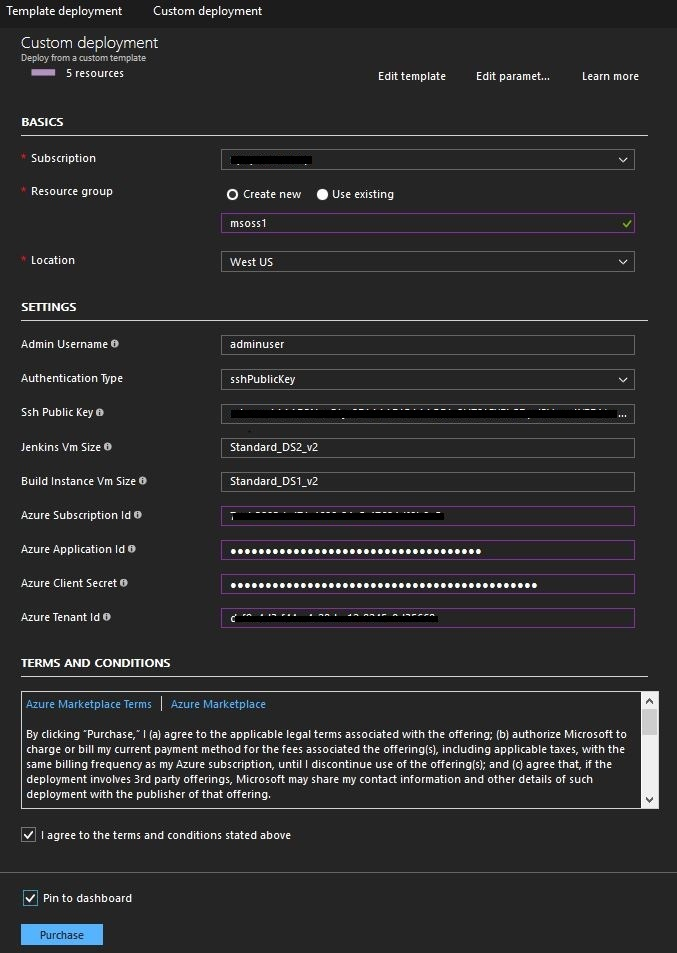
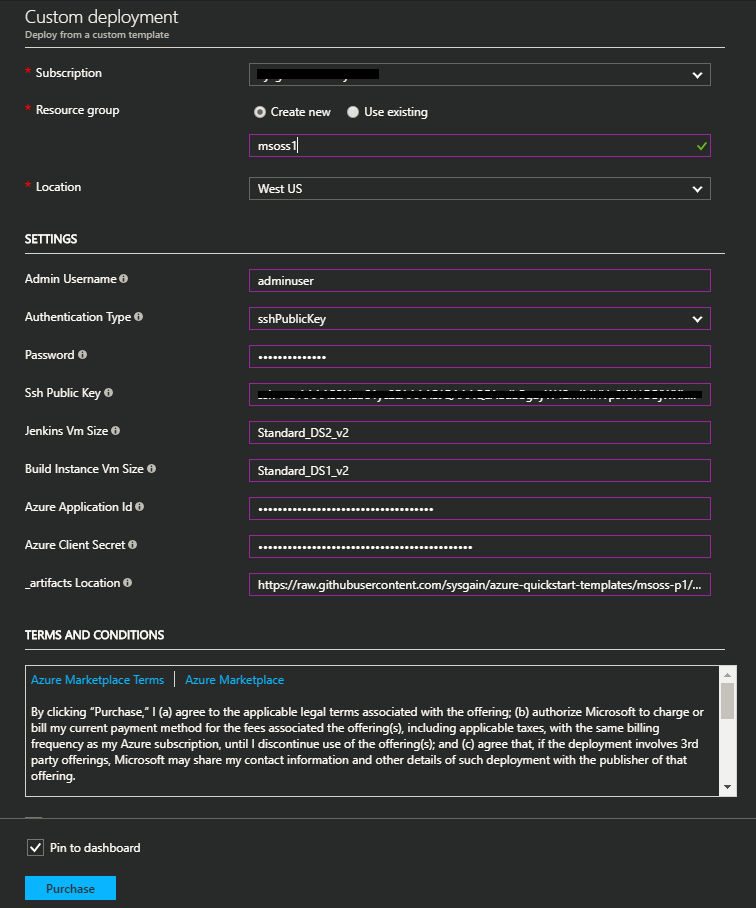
updated

diff --git a/devopstools-jekins-chefhabitat-terraform/README.md b/devopstools-jekins-chefhabitat-terraform/README.md
@@ -271,36 +271,8 @@ You will receive the following output:
 
             }
 
-2. Note the values for  **appId** , **password(ClientSecret)**, **tenant ID** for the parameters section.
+2. Note the values for  **appId** , **password(ClientSecret)** for the parameters section.
 
-You can take the **subscription ID** by running the following command:
-    **azure account show**
-
-You will receive the following output:
-
-            Executing command account show
-
-            Name              : Sysgain-Backup
-
-            ID                : ABCDEFGH-YOUR-GUID-HERE-IJKLMNOP
-
-            State             : Enabled
-
-            Tenant ID         : ABCDEFGH-YOUR-GUID-HERE-IJKLMNOP
-
-            Is Default        : true
-
-            Environment       : AzureCloud
-
-            Has Certificate   : No
-
-            Has Access Token  : YeS
-
-            User name         : username@sysgaininc.onmicrosoft.com
-
-            info              : account show command OK
-
-3. Note down the ID from the displayed details, that is the **Subscription ID.**
 
 ## Deploy the ARM Template:
 
@@ -324,7 +296,7 @@ You will receive the following output:
 
 ![alt text](https://github.com/sysgain/azure-quickstart-templates/raw/msoss-p1/devopstools-jekins-chefhabitat-terraform/images/10.png)
 
-7. Enter the detailsfor **Admin username, SSH Public key (Generated in prerequisites section), then provide Subscription Id, Application Id, Client Secret (Password), Tenant Id (Created in prerequisites section)** in Custom Deployment and click on **Purchase**.
+7. Enter the detailsfor **Admin username, SSH Public key (Generated in prerequisites section),Password then provide Application Id, Client Secret (Password) and _artifactsLocation in Custom Deployment and click on **Purchase**.
 
 ![alt text](https://github.com/sysgain/azure-quickstart-templates/raw/msoss-p1/devopstools-jekins-chefhabitat-terraform/images/11.png)
 
